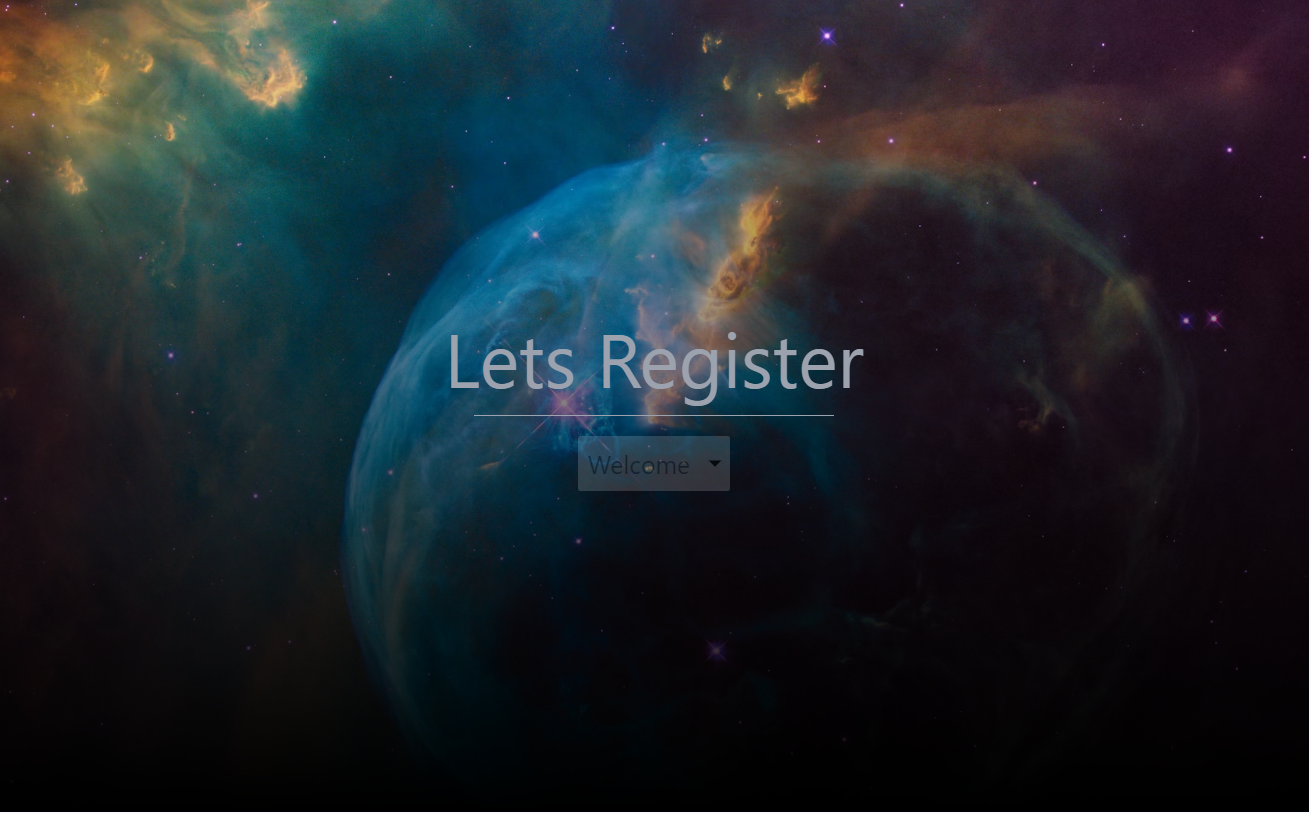
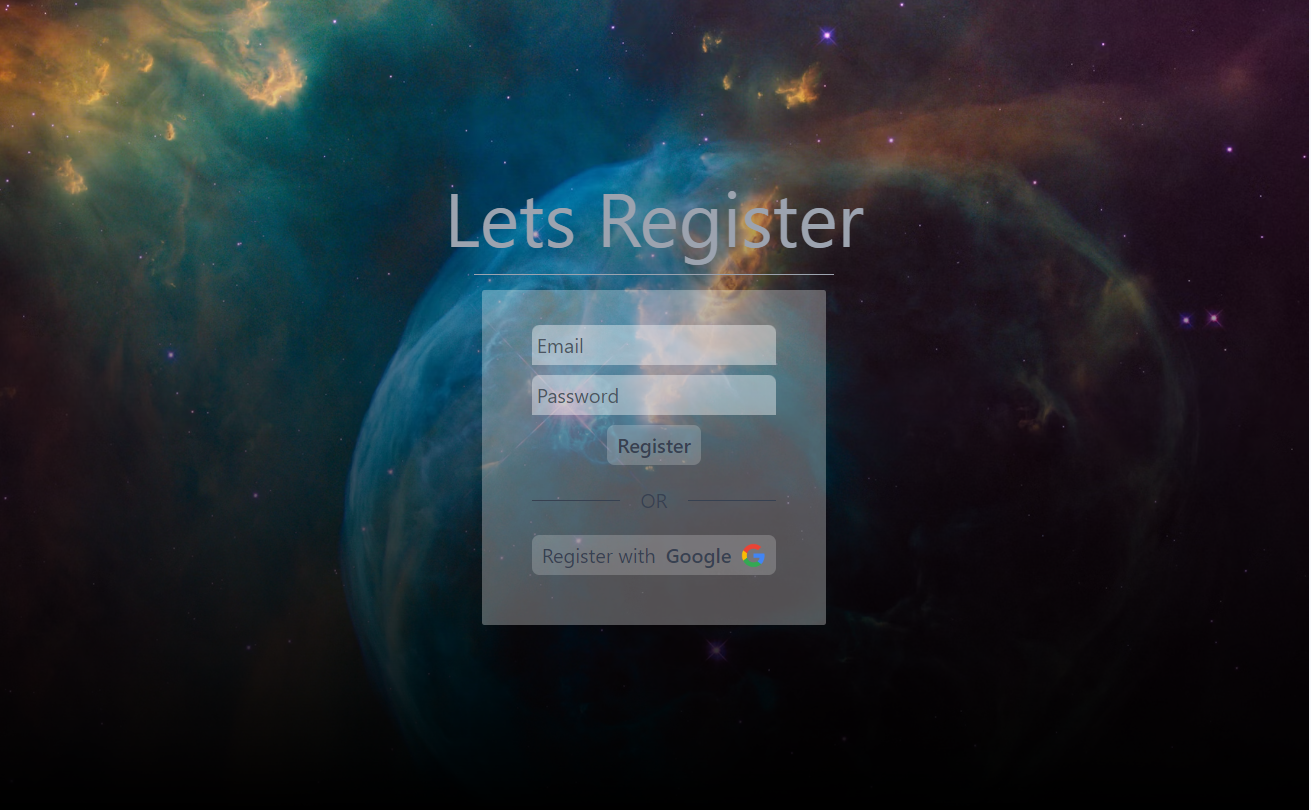
handled env variables better, fixed deserialization bug, and fixed form with required

Changed region(s): [[0.3356, 0.216, 0.6712, 0.7716], [0.0, 0.9877, 1.0, 1.0]]

diff --git a/src/public/styles/output.css b/src/public/styles/output.css
@@ -596,8 +596,16 @@ video {
   position: relative;
 }
 
+.sticky {
+  position: sticky;
+}
+
 .inset-0 {
   inset: 0px;
+}
+
+.bottom-2 {
+  bottom: 0.5rem;
 }
 
 .z-10 {
@@ -893,6 +901,14 @@ video {
 .text-white {
   --tw-text-opacity: 1;
   color: rgb(255 255 255 / var(--tw-text-opacity));
+}
+
+.text-white\/40 {
+  color: rgb(255 255 255 / 0.4);
+}
+
+.text-white\/90 {
+  color: rgb(255 255 255 / 0.9);
 }
 
 .ring-gray-200 {

diff --git a/src/app.js b/src/app.js
@@ -8,8 +8,7 @@ import session from "express-session";
 import bodyParser from "body-parser";
 import passport from "./config/passport.js";
 import { CsrfMiddlewere } from "./middleware/csrf_middlewere.js";
-
-configDotenv();
+import "./config/config.js";
 
 const app = express();
 const default_port = process.env.APP_PORT;

diff --git a/src/config/passport.js b/src/config/passport.js
@@ -75,7 +75,7 @@ passport.serializeUser((user, cb) => {
 passport.deserializeUser(async (id, cb) => {
   try {
     const loadUser = await db.query("SELECT * FROM users WHERE id=$1", [id]);
-    cb(null, loadUser.rows);
+    cb(null, loadUser.rows[0]);
   } catch (err) {
     cb(err, null);
   }

diff --git a/src/config/database.js b/src/config/database.js
@@ -1,7 +1,6 @@
 import { configDotenv } from "dotenv";
 import pg from "pg";
-
-configDotenv();
+import "./config.js";
 
 // Establisihing Pool Connection to PostgreSQL
 const db = new pg.Pool({

diff --git a/src/controllers/secret_controller.js b/src/controllers/secret_controller.js
@@ -1,4 +1,4 @@
 export function getSecretpage(req, res) {
-  const user = req.user[0];
+  const user = req.user;
   res.render("secret.ejs", { user: user });
 }

diff --git a/src/config/config.js b/src/config/config.js
@@ -1,0 +1,4 @@
+import { configDotenv } from "dotenv";
+
+// Require loaded enviroment variables
+configDotenv();
